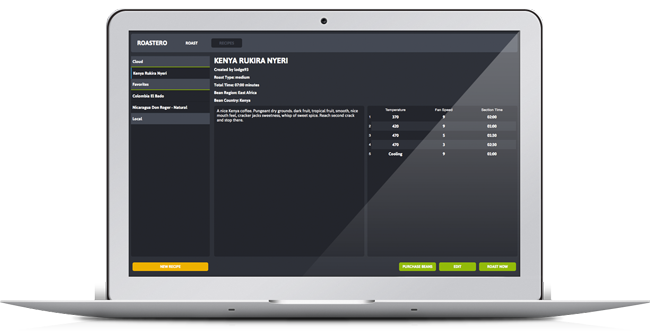
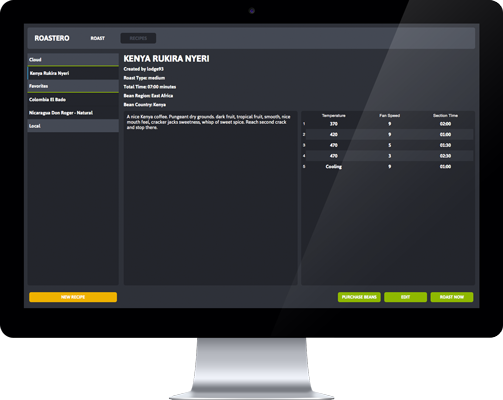
Added updated images

diff --git a/_site/index.html b/_site/index.html
@@ -96,7 +96,7 @@
 		</div>
 	</section>
 	<section class="spotlight">
-		<div class="image"><img src="images/roast-tab.png" alt="" /></div><div class="content">
+		<div class="image"><img src="images/recipe-tab.png" alt="" /></div><div class="content">
 			<h2>Our Philosophy</h2>
 			<p>We decided at an early stage that we wanted our core
 			application to be free and open source for the life of the
@@ -109,7 +109,7 @@
 		</div>
 	</section>
 	<section class="spotlight">
-		<div class="image"><img src="images/roast-tab.png" alt="" /></div><div class="content">
+		<div class="image"><img src="images/roast-completed.png" alt="" /></div><div class="content">
 			<h2>When Can I Download Roastero?</h2>
 			<p>Roastero is currently being meticulously tested by a small
 			group of beta users to ensure its quality upon release. In

diff --git a/_includes/spotlight.html b/_includes/spotlight.html
@@ -12,7 +12,7 @@
 		</div>
 	</section>
 	<section class="spotlight">
-		<div class="image"><img src="images/roast-tab.png" alt="" /></div><div class="content">
+		<div class="image"><img src="images/recipe-tab.png" alt="" /></div><div class="content">
 			<h2>Our Philosophy</h2>
 			<p>We decided at an early stage that we wanted our core
 			application to be free and open source for the life of the
@@ -25,7 +25,7 @@
 		</div>
 	</section>
 	<section class="spotlight">
-		<div class="image"><img src="images/roast-tab.png" alt="" /></div><div class="content">
+		<div class="image"><img src="images/roast-completed.png" alt="" /></div><div class="content">
 			<h2>When Can I Download Roastero?</h2>
 			<p>Roastero is currently being meticulously tested by a small
 			group of beta users to ensure its quality upon release. In

diff --git a/_site/css/style.css b/_site/css/style.css
@@ -1859,7 +1859,7 @@ button,
     .spotlight .image img {
       border-radius: 0;
       width: 100%;
-      padding-top: .7em; }
+      padding: 1em; }
   .spotlight .content {
     padding: 2em 4em 0.1em 4em;
     -moz-order: 2;

diff --git a/css/style.scss b/css/style.scss
@@ -964,7 +964,7 @@
 			img {
 				border-radius: 0;
 				width: 100%;
-				padding-top: .7em;
+				padding: 1em;
 			}
 		}
 
